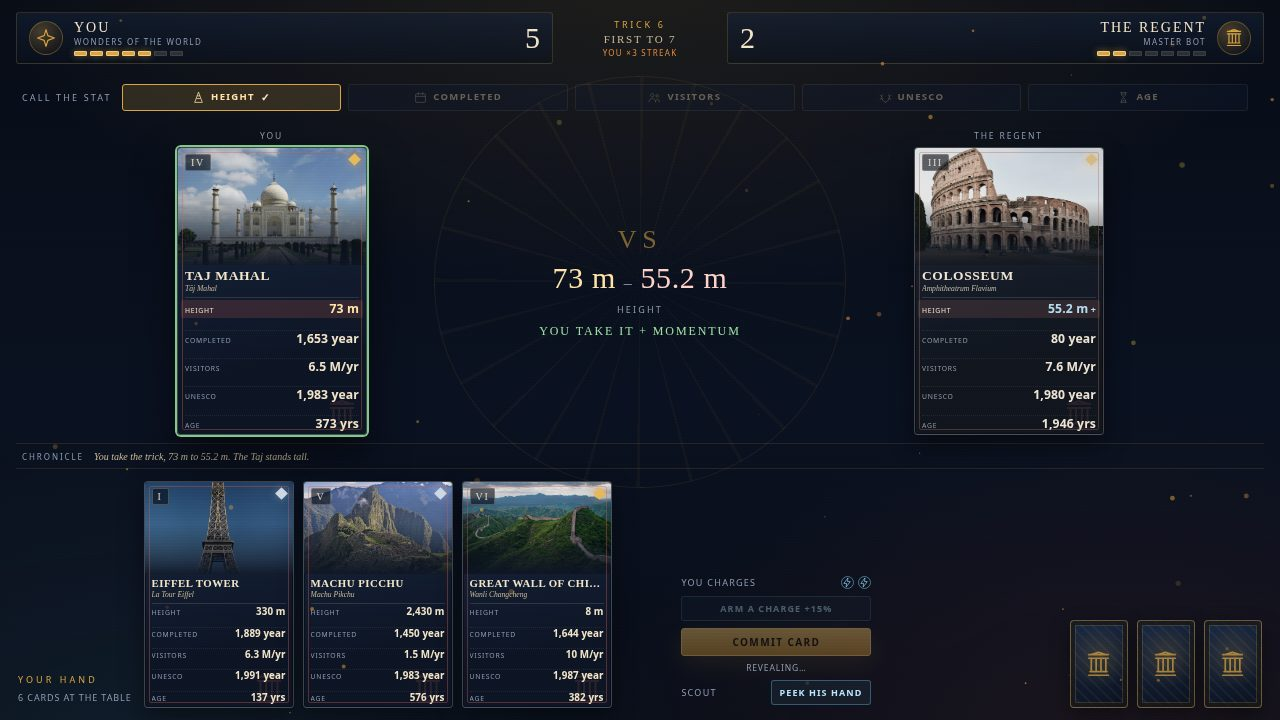
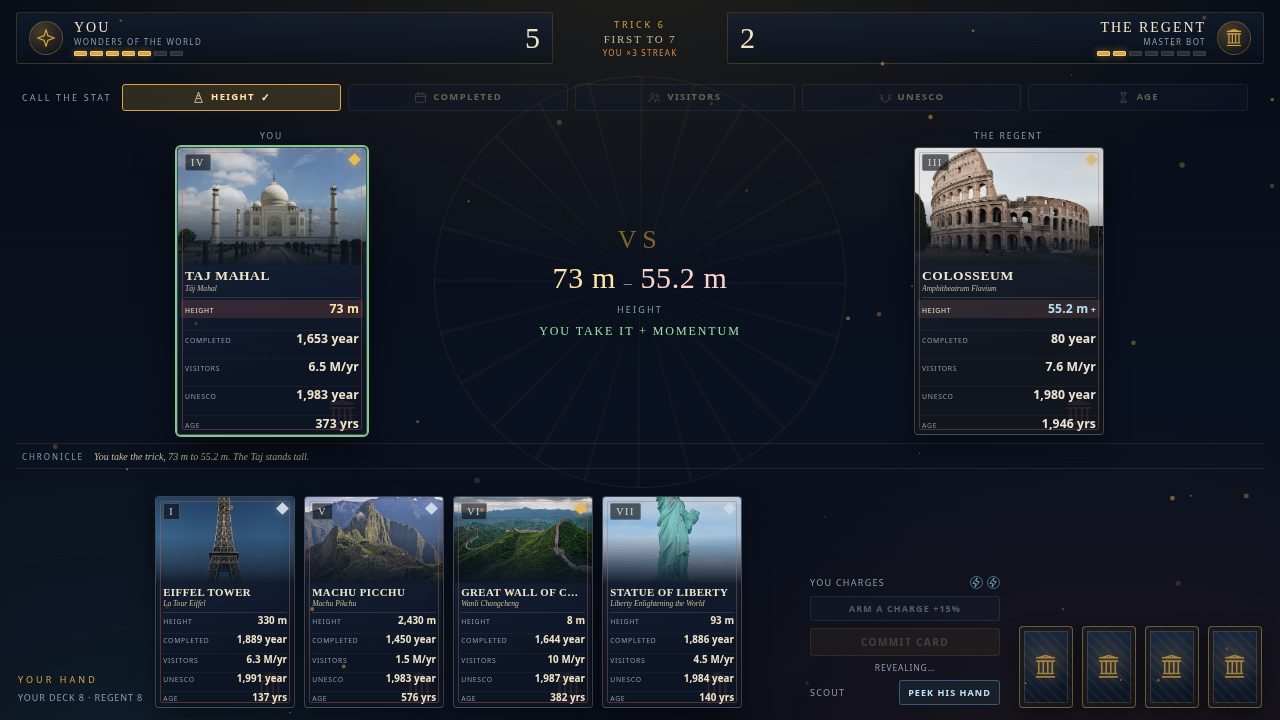
Play four-card hands and tidy the table layout

diff --git a/game/src/shots.js b/game/src/shots.js
@@ -30,19 +30,21 @@ function duelScene() {
   match.players[1].score = 2;
   match.players[0].streak = 2;
   match.players[0].run = 2;
-  fillHand(match, 0, ['taj', 'eiffel', 'machu']);
-  fillHand(match, 1, ['colosseum', 'wall', 'liberty']);
+  fillHand(match, 0, ['taj', 'eiffel', 'machu', 'petra']);
+  fillHand(match, 1, ['colosseum', 'wall', 'liberty', 'pyramid']);
   match.committed = [null, null];
-  match.players[0].hand = ['taj', 'eiffel', 'machu'];
-  match.players[1].hand = ['colosseum', 'wall', 'liberty'];
+  match.players[0].hand = ['taj', 'eiffel', 'machu', 'petra'];
+  match.players[1].hand = ['colosseum', 'wall', 'liberty', 'pyramid'];
   callStat(match, 'height');
   commitCard(match, 0, 'taj', false);
   commitCard(match, 1, 'colosseum', true);
   match.players[0].score = 3;
   match.players[1].score = 2;
   reveal(match);
-  fillHand(match, 0, ['eiffel', 'machu']);
-  fillHand(match, 1, ['wall', 'liberty']);
+  match.players[0].hand = ['eiffel', 'machu', 'wall', 'liberty'];
+  match.players[1].hand = ['pyramid', 'petra', 'eiffel', 'machu'];
+  match.players[0].draw = ['taj', 'colosseum', 'pyramid', 'petra'];
+  match.players[1].draw = ['wall', 'liberty', 'taj', 'colosseum'];
   match.log = [
     'You call HEIGHT. The Regent commits without a word.',
     'You take the trick, 73 m to 55.2 m. The Taj stands tall.',
@@ -62,8 +64,8 @@ function winScene() {
   match.winner = 0;
   match.stat = 'mass';
   match.committed = [null, null];
-  fillHand(match, 0, ['blue-whale', 'elephant', 'cheetah']);
-  fillHand(match, 1, ['crocodile', 'python', 'ostrich']);
+  fillHand(match, 0, ['blue-whale', 'elephant', 'cheetah', 'grizzly']);
+  fillHand(match, 1, ['crocodile', 'python', 'ostrich', 'peregrine']);
   match.log = ['The blue whale outweighs the court. The Regent concedes.'];
   return { match, reward: 2, screen: 'result' };
 }
@@ -79,8 +81,8 @@ function lossScene() {
   match.phase = 'over';
   match.winner = 1;
   match.stat = 'moons';
-  fillHand(match, 0, ['earth', 'mars', 'mercury']);
-  fillHand(match, 1, ['saturn', 'jupiter', 'neptune']);
+  fillHand(match, 0, ['earth', 'mars', 'mercury', 'venus']);
+  fillHand(match, 1, ['saturn', 'jupiter', 'neptune', 'uranus']);
   match.log = ['Saturn\u2019s swarm of moons seals the atlas. The Regent bows.'];
   return { match, reward: 1, screen: 'result' };
 }

diff --git a/game/styles/table.css b/game/styles/table.css
@@ -87,7 +87,7 @@
 
 /* ---------- hands ---------- */
 .hand-area {
-  display: grid; grid-template-columns: auto minmax(0, 1fr) 190px minmax(0, 0.72fr);
+  display: grid; grid-template-columns: auto minmax(0, 1fr) 190px 250px;
   gap: 12px; align-items: end; padding: 0 2px;
 }
 .hand-meta { align-self: stretch; display: flex; flex-direction: column; justify-content: flex-end; gap: 5px; padding-bottom: 4px; }
@@ -95,8 +95,8 @@
 .hand-meta .hand-note { font-size: 9px; color: var(--muted); letter-spacing: 0.1em; text-transform: uppercase; }
 .hand-cards { display: flex; gap: 9px; align-items: flex-end; justify-content: flex-start; min-height: 0; }
 .hand-cards.right { justify-content: flex-end; align-items: flex-end; }
-.hand-cards .card { --card-w: 150px; }
-.hand-cards.opponent .card-back { --card-w: 58px; }
+.hand-cards .card { --card-w: 140px; }
+.hand-cards.opponent .card-back { --card-w: 54px; }
 .hand-cards.opponent .card { --card-w: 112px; }
 .hand-cards.opponent .card.mini { height: 168px; }
 .hand-controls { display: flex; flex-direction: column; gap: 7px; align-items: stretch; padding-bottom: 3px; }
@@ -131,4 +131,4 @@
 }
 
 #screen-match .hand-area.local { grid-template-columns: auto minmax(0, 1fr) 178px minmax(0, 1fr); }
-#screen-match .hand-area.local .hand-cards .card { --card-w: 128px; }
+#screen-match .hand-area.local .hand-cards .card { --card-w: 118px; }

diff --git a/game/src/render.js b/game/src/render.js
@@ -291,7 +291,7 @@ export function renderMatch(root, match, ui) {
     <div class="hand-area ${match.mode === 'local' ? 'local' : ''}">
       <div class="hand-meta">
         <div class="eyebrow">${match.mode === 'local' ? 'Duelists&rsquo; hands' : 'Your hand'}</div>
-        <div class="hand-note">${you.hand.length + rival.hand.length} cards at the table</div>
+        <div class="hand-note">Your deck ${you.draw.length + you.hand.length} &middot; Regent ${rival.draw.length + rival.hand.length}</div>
       </div>
       ${handHtml(match, 0, ui)}
       <div class="hand-controls">
@@ -413,7 +413,7 @@ export function renderCardModal(deck, card, credit) {
 export function renderHelp() {
   return `
     <h2>How to duel</h2>
-    <p>Apex Atlas is a card duel of real-world facts. You and your rival each hold three cards from the same deck; the first to <b>7 points</b> wins.</p>
+    <p>Apex Atlas is a card duel of real-world facts. You and your rival each hold four cards from the same deck; the first to <b>7 points</b> wins.</p>
     <ol>
       <li><b>Call the stat.</b> The leader chooses one of the deck's five stats &mdash; mass, height, moons, whatever the deck offers.</li>
       <li><b>Commit a card.</b> Both duelists choose a card in secret. The card with the higher value in the called stat takes the trick and one point.</li>

diff --git a/game/src/rules.js b/game/src/rules.js
@@ -6,6 +6,7 @@ import { DECKS } from './decks.js';
 import { createRng, shuffle } from './rng.js';
 
 export const TARGET_POINTS = 7;
+export const HAND_SIZE = 4;
 export const CHARGE_BONUS = 1.15;
 
 export function statRange(deck, key) {
@@ -66,7 +67,7 @@ export function newMatch({ deckId, unlockedIds, mode = 'solo', difficulty = 'ade
 }
 
 export function drawToHand(match, player) {
-  while (player.hand.length < 3) {
+  while (player.hand.length < HAND_SIZE) {
     if (!player.draw.length) {
       if (!player.discard.length) break;
       player.draw = shuffle(player.discard.splice(0), match.random);

diff --git a/game/styles/theme.css b/game/styles/theme.css
@@ -271,3 +271,10 @@ body::before {
   .deck-rail { margin: 12px 0 10px; }
   .mode-panel { margin-bottom: 8px; }
 }
+
+.btn.primary:disabled {
+  background: rgba(217, 164, 65, 0.14);
+  border-color: var(--brass-soft);
+  color: rgba(242, 228, 200, 0.45);
+  box-shadow: none;
+}
